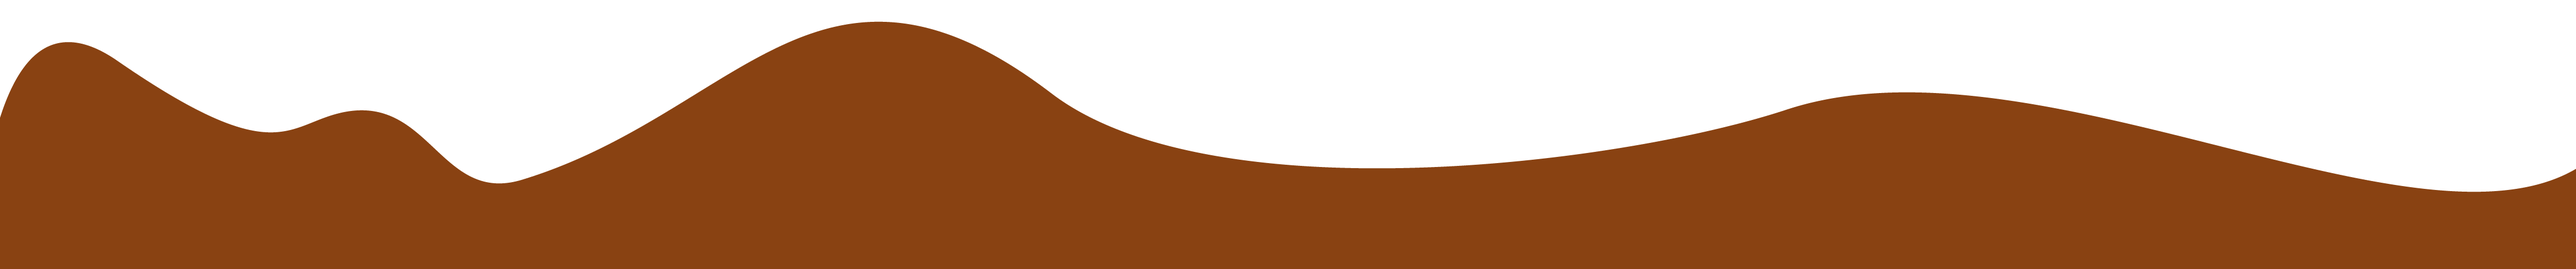
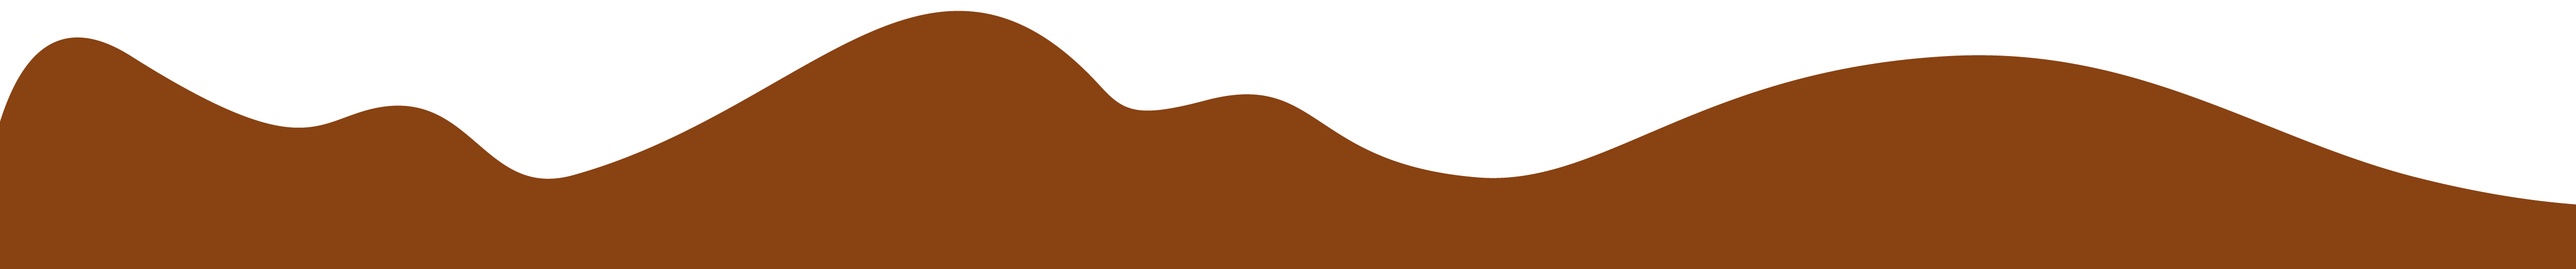
updated html and css

Changed region(s): [[0.0, 0.0312, 0.6239, 0.6875], [0.6239, 0.1875, 1.0, 0.7812]]

diff --git a/styles.css b/styles.css
@@ -157,7 +157,7 @@ footer p, footer a {
 
     img:hover {
         rotate: 360deg;
-        translate: 150px;
+        translate: 150px; 
     }
 
     header h2 {
@@ -228,7 +228,7 @@ footer p, footer a {
         }
     }
 
-    .content #experiments {
+    .content #ex {
         animation-name: colorChange3; 
         animation-direction: alternate;
         animation-iteration-count: infinite;
@@ -312,8 +312,8 @@ footer p, footer a {
     }
 
     #foot {
-        background-image: url(./images/portal_footer.png);  
-        background-size: contain; 
+        background-image: url(./images/portal_footer_desktop.png);  
+        background-size: cover; 
         background-position: center bottom; 
         max-width: 1100px; 
     }

diff --git a/index.html b/index.html
@@ -41,7 +41,7 @@
                     </div>
 
                     <section id="experiments">
-                        <h2 id="experiments">Experiments</h2>
+                        <h2 id="ex">Experiments</h2>
                         <ul>
                             <li><a href="./exp/exp1.html">Exp 1</a></li>
                         </ul>
